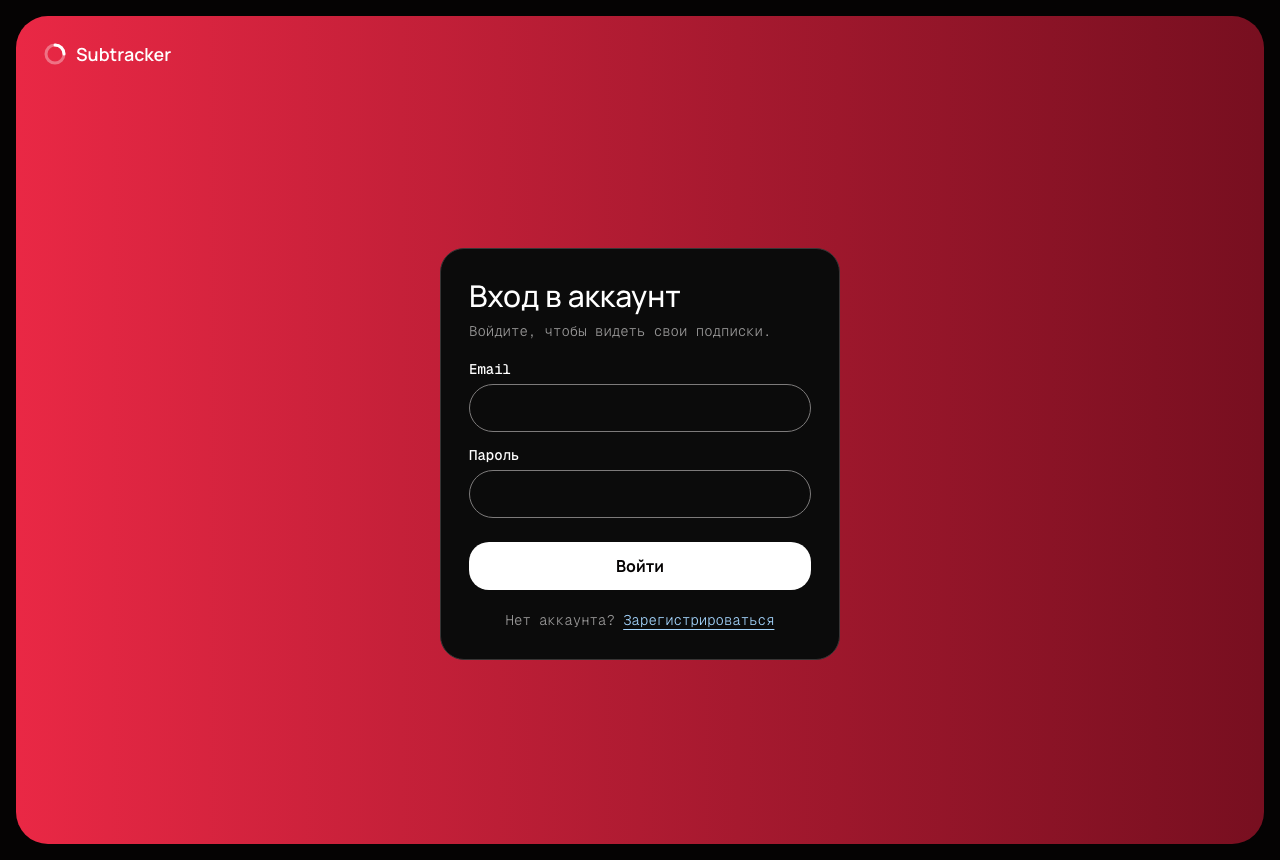
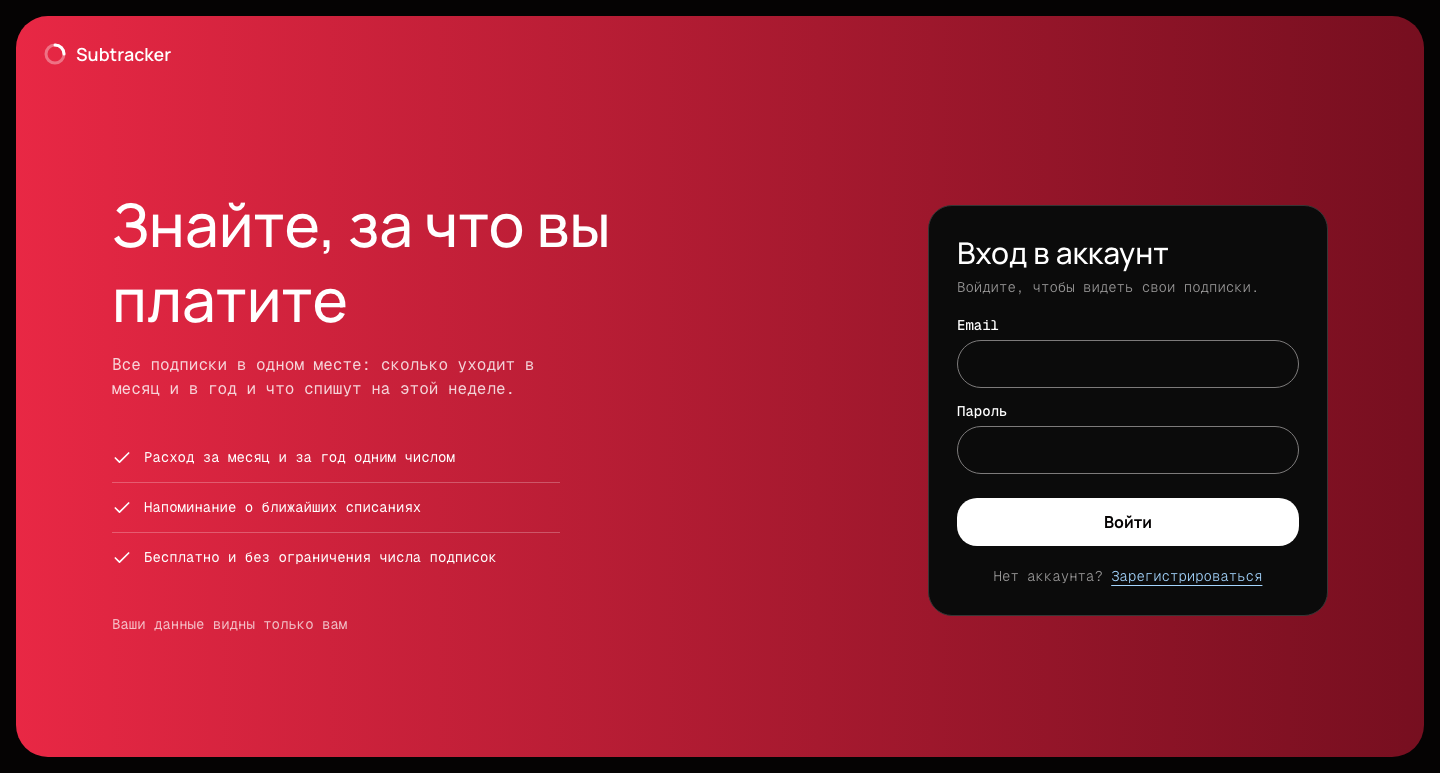
Add service intro panel next to the auth card on wide screens

diff --git a/frontend/src/components/AuthLayout.tsx b/frontend/src/components/AuthLayout.tsx
@@ -1,13 +1,31 @@
+import { Check } from 'lucide-react'
 import type { ReactNode } from 'react'
 import { Logo } from '@/components/Logo'
 import { Card } from '@/components/ui/card'
 
-/** Экран входа и регистрации: рамка со свечением и карточка с формой по центру. */
+const POINTS = ['Расход за месяц и за год одним числом', 'Напоминание о ближайших списаниях', 'Бесплатно и без ограничения числа подписок']
+
+/** Экран входа и регистрации: рамка со свечением, слева рассказ о сервисе (только на широком экране), справа карточка с формой. */
 export function AuthLayout({ children }: { children: ReactNode }) {
   return (
     <main className="min-h-dvh p-3 sm:p-4">
-      <div className="glow-frame relative flex min-h-[calc(100dvh-1.5rem)] items-center justify-center rounded-[var(--radius-card)] px-4 pt-20 pb-8 sm:min-h-[calc(100dvh-2rem)] sm:rounded-[var(--radius-frame)]">
+      <div className="glow-frame relative flex min-h-[calc(100dvh-1.5rem)] items-center justify-center rounded-[var(--radius-card)] px-4 pt-20 pb-8 sm:min-h-[calc(100dvh-2rem)] sm:rounded-[var(--radius-frame)] lg:justify-between lg:gap-16 lg:px-16 xl:px-24">
         <Logo onGlow className="absolute top-6 left-6 sm:left-7" />
+        <section aria-label="О сервисе" className="hidden max-w-xl flex-1 flex-col gap-8 text-white lg:flex">
+          <div className="flex flex-col gap-4">
+            <p className="font-sans text-5xl leading-tight font-medium xl:text-6xl">Знайте, за что вы платите</p>
+            <p className="max-w-md text-base text-white/80">Все подписки в одном месте: сколько уходит в месяц и в год и что спишут на этой неделе.</p>
+          </div>
+          <ul className="flex max-w-md flex-col">
+            {POINTS.map((point) => (
+              <li key={point} className="flex items-center gap-3 border-t border-white/25 py-3.5 first:border-t-0">
+                <Check aria-hidden="true" className="size-5 shrink-0" />
+                {point}
+              </li>
+            ))}
+          </ul>
+          <p className="text-sm text-white/70">Ваши данные видны только вам</p>
+        </section>
         <Card className="w-full max-w-[400px] gap-0 p-6 sm:p-7">{children}</Card>
       </div>
     </main>

diff --git a/frontend/spec.md b/frontend/spec.md
@@ -33,6 +33,7 @@
 2.3. При ответе 401 над кнопкой сообщение «Неверный email или пароль. Нет аккаунта? Зарегистрируйтесь» (со ссылкой на регистрацию). Сервер не отличает неизвестный email от неверного пароля, поэтому сообщение одно. Введённые значения остаются, пользователь может исправить и отправить снова.
 2.4. При сетевой ошибке или 5xx сообщение «Не удалось связаться с сервером. Повторите попытку», значения остаются.
 2.5. При успехе токены сохраняются, пользователь попадает на `/subscriptions`.
+2.6. Оформление экранов входа и регистрации: на ширине от 1024 px слева от карточки блок о сервисе (заголовок, короткое описание, три пункта, строка о приватности), чисто декоративный; на более узком экране он скрыт.
 
 ## 3. Регистрация (`POST /api/auth/register`, затем вход)
 
